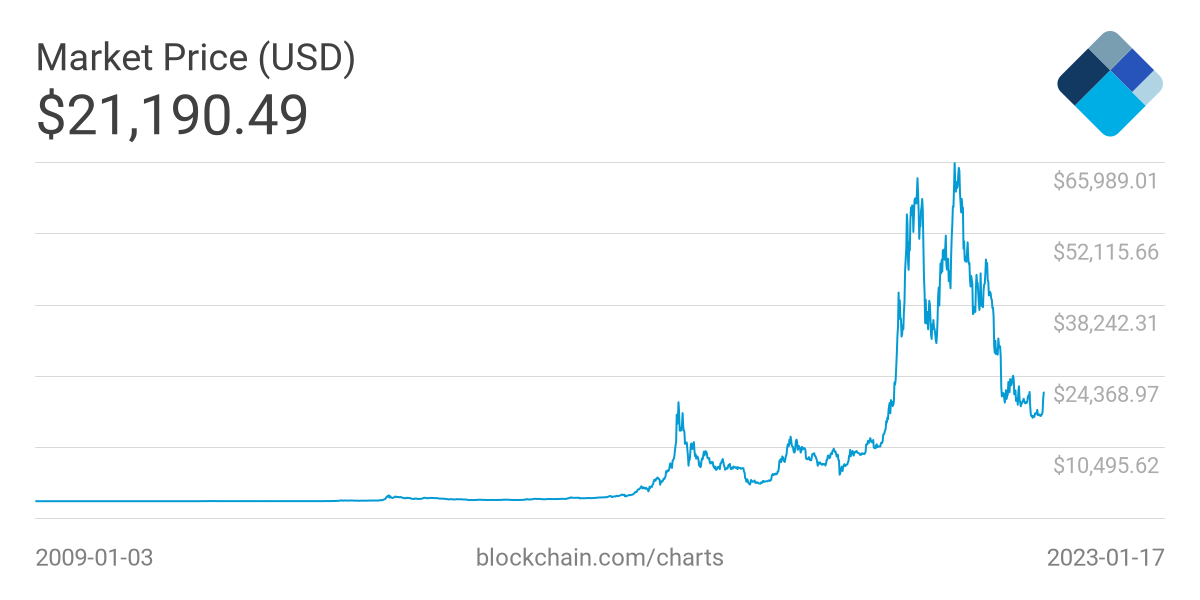
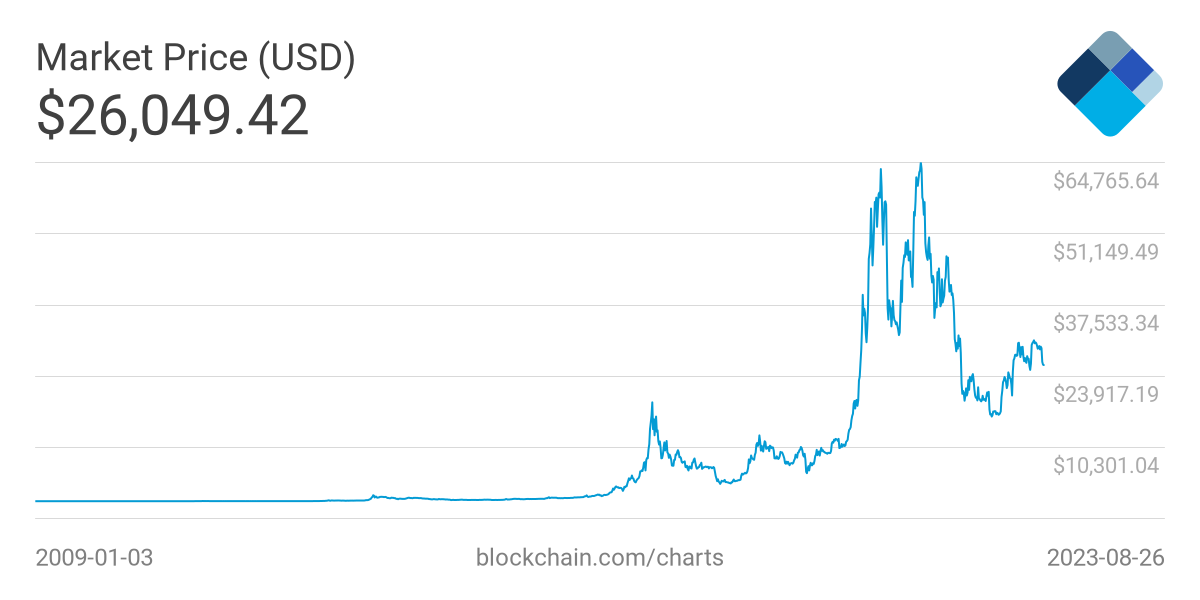
Updated overview and bitcoin slide sets with latest data

diff --git a/slides/overview.html b/slides/overview.html
@@ -137,7 +137,7 @@ According to Jan Lansky ([source](http://si-journal.org/index.php/JSI/article/vi
 <!-- .slide: class="no-white-img-background max-image-height-300 noboxshadow" -->
 ![AaronDollar (TM)](images/overview/aaron-dollar.png)
 - Would you pay me 1 dollar for it?  What about `$`10?  `$`100?
-<li class="fragment" data-fragment-index="1">If I told you it would buy you an A+ in this course...<ul><li>Would you pay me 1 dollar for it?  What about <code>$</code>10?  <code>$</code>100?</li></ul></li>
+<li class="fragment" data-fragment-index="1">If I told you it would buy you an A+ in this course...<ul><li>Would you pay me <code>$</code>100 then?</li></ul></li>
 
 
 
@@ -161,7 +161,6 @@ According to Jan Lansky ([source](http://si-journal.org/index.php/JSI/article/vi
     - Official currencies: USD and BTC
     - Thus, little control over monetary policy...
     - In 2021 they mined `$`269 in BTC for `$`4,672 ([source](https://slashdot.org/story/21/12/11/188219/foreign-policy-magazine-bitcoin-failed-in-el-salvador-is-the-answer-more-bitcoin))
-<!-- change each semester -->
 
 
 
@@ -175,8 +174,8 @@ According to Jan Lansky ([source](http://si-journal.org/index.php/JSI/article/vi
 
 
 ## Cryptocurrencies
-- There are 8,806 existing cryptocurrencies (that have value) <!-- change each semester -->
-  - As per [investing.com](https://www.investing.com/crypto/currencies) (as of Jan 17, 2023)
+- There are 8,906 existing cryptocurrencies (that have value) <!-- change each semester -->
+  - As per [investing.com](https://www.investing.com/crypto/currencies) (as of Aug 27, 2023)
 - One estimate is that 100 new ones are created *each day*
   - Most don't make investing.com's list
 - Some are [Ponzi schemes](https://en.wikipedia.org/wiki/Ponzi_scheme), some are [pyramid schemes](https://en.wikipedia.org/wiki/Ponzi_scheme), and some are worthwhile
@@ -205,7 +204,7 @@ According to Jan Lansky ([source](http://si-journal.org/index.php/JSI/article/vi
 <!-- .slide: class="right-float-img-nb-300" -->
 ## A note about numbers...
 [![](../slides/images/overview/bitcoin-coin.webp)](https://commons.wikimedia.org/wiki/File:One_bitcoin_sitting_atop_bundles_of_US_$100_notes.png)
-- The data in this slide set was all updated for the current semester (on Jan 17, 2023) <!-- change each semester -->
+- The data in this slide set was all updated for the current semester (as of Aug 27, 2023) <!-- change each semester -->
 - Bitcoin is highly volatile (the value changes so fast) that it is likely to be quite different in a day or two
   - Indeed, the value of a Bitcoin changed *during* the updating of the numbers!
     - So you will see (slightly) different values for the price, for example
@@ -291,9 +290,9 @@ From [blockchain.com](https://blockchain.com); BTC peaked at $68,789 in November
 - The first block was the "genesis block"
 - Each successive block includes the SHA-256 hash of the previous block
   - Thus, you can't make a change to a previous block without changing all successive blocks
-- The current blockchain (as of August 23, 2022) is  772,463 blocks (aka 'height'; [source](https://bitinfocharts.com/))
-  - About 438 Gb in size ([source](https://www.blockchain.com/charts/blocks-size))
-<!-- change each semester -->
+- The current blockchain (as of Aug 27, 2023) is  805,090 blocks (aka 'height'; [source](https://bitinfocharts.com/))
+  - About 494 Gb in size ([source](https://www.blockchain.com/charts/blocks-size))
+<!-- change each semester (be sure to divide that number by 1024) -->
 
 
 
@@ -363,19 +362,23 @@ From [blockchain.com](https://blockchain.com); BTC peaked at $68,789 in November
 
 ## Difficulty
 - First target ($ft$): 00000000ffff00000000000000 00000000000000000000000000000000000000
-- The current target ($ct$) is 00000000000000000008417e00000000 00000000000000000000000000000000
-  - As of Jan 17, 2023 and can be found [here](http://learnmeabitcoin.com/glossary/target)
+<!-- formula: ft=26959535291011309493156476344723991336010898738574164086137773096960 -->
+- The current target ($ct$) is  0000000000000000000561020000000 000000000000000000000000000000000
+<!-- formula: ct=515199788182065911307653755120147792390991404454641664 -->
+  - As of Aug 27, 2023 and can be found [here](http://learnmeabitcoin.com/glossary/target)
+    - That site is almost 5,000 blocks behind...
   <!-- change each semester -->
-  - The new target is harder than the old: specifically $ft/ct$ = 34,093,570,325,204 times harder (that's 34.1 *trillion*)
+  - The new target is harder than the old: specifically $ft/ct$ = 52,328,312,063,444 times harder (that's 52.3 *trillion*)
+    - Actually it's about 55.6 trillion now<!-- set this value to diff, such as via the formula: diff=55.62*10^12 -->
 - This number is the bitcoin *difficulty*, and the latest value can be found [here](https://www.coinwarz.com/mining/bitcoin/difficulty-chart)
 
 
 
 ## Current hash difficulty
 - For the first target, a random nonce had a 1 in 4.3 billion chance of success
-- The current target is 34.1 trillion times harder
-  - A random nonce now has a 1 in $1.46 \times 10^{23}$ chance of success
-    <!-- change each semester --><!-- that value is n = 1/(d*s^32) -->
+- The current target is 55.6 trillion times harder
+  - A random nonce now has a 1 in $2.39 \times 10^{23}$ chance of success
+    <!-- change each semester; formula: chance=diff*2^32 -->
 
 
 
@@ -385,18 +388,18 @@ From [blockchain.com](https://blockchain.com); BTC peaked at $68,789 in November
 - A typical CPU can do maybe 10 Mhash/sec (million hashes per second)
   - A very fast CPU today could do about 25 Mhash/sec
   - A [$1,500 video card](https://www.amazon.com/gp/product/B07GHXQTGZ/) today could do about 800 Mhash/sec (estimate based on [this](https://en.bitcoin.it/wiki/Non-specialized_hardware_comparison#Nvidia) and [this](https://gpu.userbenchmark.com/Compare/Nvidia-RTX-2080-vs-Nvidia-GeForce-GTX-590-SLI-Disabled/4026vsm8041))
-- Consider a 1 in $1.46 \times 10^{23}$ chance of success
-- To generate $1.2 \times 10^{23}$ hashes at 800 million (8 Mhash) per second on a fast graphics card, this will take 6.8 *million years*
-  <!-- change each semester -->
+- Consider a 1 in $2.39 \times 10^{23}$ chance of success
+- To generate $2.39 \times 10^{23}$ hashes at 800 million (8 Mhash) per second on a fast graphics card, this will take 9.5 *million years*
+  <!-- change each semester; formula: gpuyears=chance/(365.25*24*60*60*800*10^6) -->
 
 
 
 <!-- .slide: class="right-float-img-nb-300" -->
 ## Electricity usage
 ![](https://upload.wikimedia.org/wikipedia/commons/6/6b/Electricity_pylons2.jpg)
-- A graphics card uses about 200 W (watts) (estimated from [here](https://en.bitcoin.it/wiki/Non-specialized_hardware_comparison#Nvidia))
+- A graphics card uses about 400 W (watts) (estimated from [here](https://en.bitcoin.it/wiki/Non-specialized_hardware_comparison#Nvidia))
 - Electricity in Charlottesville costs 11.04 cents per kW/h (as per [here](https://www.electricitylocal.com/states/virginia/charlottesville/))
-- This would cost about a billion dollars <!-- change each semester; if n is as above, and 800 Mh is the GPU rate, then price = n/60/60*200/1000*.1104/800000000 -->
+- This would cost about 3.7 billion dollars <!-- change each semester; formula: elecost=gpuyears*400/1000*24*365.25*0.1104 -->
 
 
 
@@ -448,12 +451,12 @@ From [blockchain.com](https://blockchain.com); BTC peaked at $68,789 in November
 
 
 ## Reward per block
-- The current reward (as of Jan 17, 2023) is 6.25 BTC
+- The current reward (as of Aug 27, 2023) is 6.25 BTC
   <!-- change each semester -->
   - Plus transaction fees of around 0.1 BTC or so
-  - The estimated date when it drops to 3.125 BTC is May 2024 ([source](https://www.bitcoinblockhalf.com/))
-- At a price of about $21k per block ([source](https://www.coindesk.com/price/bitcoin)), 6.35 BTC is  about $133k for a properly signed block   <!-- change each semester -->
-  - But if it costs over a billion dollars in electricity, perhaps it's not all that worth it
+  - The estimated date when it drops to 3.125 BTC is April 2024 ([source](https://www.bitcoinblockhalf.com/))
+- At a price of about $26k per block ([source](https://www.coindesk.com/price/bitcoin)), 6.35 BTC is  about $166k for a properly signed block   <!-- change each semester --><!-- formula: reward=166*1000 -->
+  - But if it costs almost 4 billion dollars in electricity, perhaps it's not all that worth it
   - Unless you use somebody else's electricity...
 
 
@@ -478,6 +481,7 @@ From [blockchain.com](https://blockchain.com); BTC peaked at $68,789 in November
 ## Hashes per second
 From [blockchain.com](https://www.blockchain.com/charts/hash-rate), and for the entire Bitcoin network; E = exa = $10^{18}$
 <!-- change each semester -->
+<!-- formula: hashrate=390.9*10^18 -->
 ![hashes per second](images/timely/btc-hashes-per-sec.webp)
 
 
@@ -487,59 +491,70 @@ From [blockchain.com](https://www.blockchain.com/charts/hash-rate), and for the 
 ![](https://m.media-amazon.com/images/I/61WsmRwaOaL._AC_SL1000_.jpg)
 - A whole industry has sprung up: you can find the hardware online (such as [here](https://www.bitcoinmining.com/bitcoin-mining-hardware/))
 - These devices are much faster and use much less electricity
-- Consider the [DragonX AntMiner S9](https://www.amazon.com//dp/B07CGFLJNQ/), which used to cost `$`300 (and over `$`1k before that)
-  - Amazon doesn't sell it anymore
-  - It can compute 14 Thash/sec (tera), or $14*10^{12}$ hash/sec
+- Consider the [DragonX AntMiner S19](https://www.amazon.com//dp/B08ZNMGKZ1/), which costs `$`1,200 (as of Aug 27, 2023)
+  - It can compute 90 Thash/sec (tera), or $90 \ast 10^{12}=9 \ast 10^{13}$ hash/sec
   - I don't believe their numbers that they posted at that link, though
 
 
 
 ## Mining profitability
 - A reasonable profit margin estimate:
-  - For a investment of $x$ dollars in mining equipment, you might make one-twentieth of that per month
+  - For a investment of $x$ dollars in mining equipment, you might make one-tenth of that per month
     - If you are lucky!
   - So you will start to make a profit in about two years, assuming that the difficulty doesn't go up that much
+- But this does *NOT* include electrical costs!
 - Keep in mind that if this were *really* profitable, then everybody would jump in on it, and the difficulty would just jump up, causing it to become suddenly less profitable
 
 
 
-## [DragonX AntMinder S9](https://www.amazon.com/dp/B07WV6TPN7) analysis
+## [DragonX AntMiner S19](https://www.amazon.com/dp/B08ZNMGKZ1) analysis
 <!-- change each semester -->
 - We know that:
-  - The current hash rate is 267 EH/s
-  - Blocks take about 10 minutes to process (actually about 9m 25s right now ([source](https://bitinfocharts.com/)))
-  - The [DragonX AntMinder S9](https://www.amazon.com/dp/B07WV6TPN7) claims to hash 14 TH/s
-- 267 exa / 14 tera = $267 \cdot 10^{18} / 14 \cdot 10^{12} = 19 \cdot 10^{6}$ or 19 million
-- Thus, you would expect to get one 19-millionth of a block's reward in a pooled setup
-- At $133k per block, that's about 1 *cent* per block
+  - The current hash rate is about 391 EH/s
+  - Blocks take about 10 minutes to process (actually about 12m 6s right now ([source](https://bitinfocharts.com/)))
+  - The [DragonX AntMiner S9](https://www.amazon.com/dp/B08ZNMGKZ1) claims to hash 90 TH/s <!-- formula: minerrate=90*10^12 -->
+- 391 exa / 90 tera = $391 \cdot 10^{18} / 90 \cdot 10^{12} = 4.34 \cdot 10^{6}$ or 4 million <!-- formula: blockreward=hashrate/minerrate -->
+- Thus, you would expect to get one 4-millionth of a block's reward in a pooled setup <!-- formula: profitperblock=reward/blockreward -->
+- At `$`166 per block, that's about 3.8 *cents* per block
 - (And we aren't counting electricity here)
 
 
 
-## [DragonX AntMinder S9](https://www.amazon.com/dp/B07WV6TPN7) analysis
+## [DragonX AntMiner S19](https://www.amazon.com/dp/B08ZNMGKZ1) analysis
 <!-- change each semester -->
-- At $133k per block, that's about 1 *cent* per block
-  - Which is $1.05 per day
-    - This assumes 10 minute blocks; it's a bit more with 9m21s blocks
-  - You will make back your initial investment of $300 (plus tax) 286 days
-    - That's 9.4 months
+- At `$`166 per block, that's about 3.8 cents per block
+  - Which is $5.50 per day <!-- formula: profitperday=profitperblock*24*6 -->
+    - This assumes 10 minute blocks; it's a less with 12m6s blocks
+  - You will make back your initial investment of `$`1,200 (plus tax) 220 days
+    - That's 7.3 months
 - This assumes that the numbers don't change!
   - And that you aren't paying for electricity
-  - And we know the reward per block will go down in May of 2024...
-- There is also [one available](https://www.amazon.com/dp/B07YVMS7CY/) that mines 3 times as fast but costs 5 times as much!
+  - And we know the reward per block will go down in April of 2024...
+- There is also [one available](https://www.amazon.com/dp/B0CCK4RDJF/) that mines twice times as fast but costs 3.5 times as much, but uses less power
 
 
 
-## [DragonX AntMinder S9](https://www.amazon.com/dp/B07WV6TPN7) analysis
+## [DragonX AntMiner S19](https://www.amazon.com/dp/B08ZNMGKZ1) analysis
 <!-- change each semester -->
-- You will make $1.05 in BTC per day
+- You will make $5.50 in BTC per day
 - But... electricity is not free
-- Stated power usage: 1,373 W or 1.373 kW
-  - Over 24 hours that's $24 * 1.373 = 32.952$ kWh
-  - At Charlottesville's rate of 11.04&cent; per kWh, that's $3.64 per day
-- So your total profit is: `$`3.64 - `$`1.05 or
-  - *Negative* `$`2.59 cents per day!
+- Stated power usage: 3,250 W or 3.25 kW
+  - Over 24 hours that's $24 * 3.25 = 78$ kWh
+  - At Charlottesville's rate of 11.04&cent; per kWh, that's `$`8.61 per day
+    - About `$`260 per month
+- So your total daily profit is: `$`5.50 - `$`8.61 or
+  - *Negative* `$`3.11 cents per day!
 
+
+
+
+## When is Bitcoin mining profitable?
+- When you don't pay for electricity
+  - Apartment rental where utilities are included in the rent, for example
+- Using computers that are not your own
+  - Malware, running it on another cluster, etc.
+- When done on a large scale
+  - One can make deals with power companies, locate where power is cheaper, etc.
 
 
 

diff --git a/slides/images/timely/readme.html b/slides/images/timely/readme.html
@@ -36,6 +36,10 @@
     document.getElementById(tabName).style.display = "block";
     evt.currentTarget.className += " active";
   }
+
+  function insertCopyLink(text) {
+    document.write("<span class=\"copylink copy_img\" onclick=\"navigator.clipboard.writeText('" + text.replace(/\"/g,"\\'") + "')\"></span>");
+  }
   </script>
   <!--[if lt IE 9]>
     <script src="//cdnjs.cloudflare.com/ajax/libs/html5shiv/3.7.3/html5shiv-printshiv.min.js"></script>
@@ -46,20 +50,20 @@
 <p>These are the graphs that have to be changed each time the lecture is presented. The newest images should not have any date suffix; a date suffix is only added when a newer image is being added.</p>
 <p>From the <a href="../../../uva/introduction.html#/">course introduction slide set</a>:</p>
 <ul>
-<li>Cryptocurrency market capitalization, all-time (<code>cc-market-cap.svg</code>), from <a href="https://coinmarketcap.com/charts/">https://coinmarketcap.com/charts/</a>: from <a href="cc-market-cap-2022-01-18.svg">2022-01-18</a>, <a href="cc-market-cap-2022-08-23.svg">2022-08-23</a>, <a href="cc-market-cap.svg">2023-01-23</a></li>
-<li>Cryptocurrency market capitalization without BTC, all-time (<code>cc-market-cap-no-btc.svg</code>), from <a href="https://coinmarketcap.com/charts/">https://coinmarketcap.com/charts/</a>: from <a href="cc-market-cap-no-btc-2022-01-18.svg">2022-01-18</a>, <a href="cc-market-cap-no-btc-2022-08-23.svg">2022-08-23</a>, <a href="cc-market-cap-no-btc.svg">2023-01-23</a></li>
-<li>Bitcoin dominance, all-time (<code>btc-dominance.svg</code>), from <a href="https://coinmarketcap.com/charts/">https://coinmarketcap.com/charts/</a>: from <a href="btc-dominance-2022-01-18.svg">2022-01-18</a>, <a href="btc-dominance-2022-08-23.svg">2022-08-23</a>, <a href="btc-dominance.svg">2023-01-23</a></li>
+<li>Cryptocurrency market capitalization, all-time (<code>cc-market-cap.svg</code>), from <a href="https://coinmarketcap.com/charts/">https://coinmarketcap.com/charts/</a>: from <a href="cc-market-cap-2022-01-18.svg">2022-01-18</a>, <a href="cc-market-cap-2022-08-23.svg">2022-08-23</a>, <a href="cc-market-cap-2023-01-17.svg">2023-01-17</a>, <a href="cc-market-cap.svg">2023-08-27</a></li>
+<li>Cryptocurrency market capitalization without BTC, all-time (<code>cc-market-cap-no-btc.svg</code>), from <a href="https://coinmarketcap.com/charts/">https://coinmarketcap.com/charts/</a>: from <a href="cc-market-cap-no-btc-2022-01-18.svg">2022-01-18</a>, <a href="cc-market-cap-no-btc-2022-08-23.svg">2022-08-23</a>, <a href="cc-market-cap-no-btc-2023-01-17.svg">2023-01-17</a>, <a href="cc-market-cap-no-btc.svg">2023-08-27</a></li>
+<li>Bitcoin dominance, all-time (<code>btc-dominance.svg</code>), from <a href="https://coinmarketcap.com/charts/">https://coinmarketcap.com/charts/</a>: from <a href="btc-dominance-2022-01-18.svg">2022-01-18</a>, <a href="btc-dominance-2022-08-23.svg">2022-08-23</a>, <a href="btc-dominance-2023-01-17.svg">2023-01-17</a>, <a href="btc-dominance.svg">2023-08-27</a></li>
 </ul>
 <p>From the <a href="../../overview.html#/">overview slide set</a>. These should be exported as svg if possible; if not, then 1200x600 rasterized and converted to webp (running <code>make</code> will covert .png files to .webp).</p>
 <ul>
-<li>Bitcoin price, all-time / raw values (<code>btc-price.webp</code>), from <a href="https://www.blockchain.com/charts/market-price">blockchain.com</a>: from <a href="btc-price-2022-01-17.png">2022-01-17</a>, <a href="btc-price-2022-08-23.webp">2022-08-23</a>, <a href="btc-price.webp">2023-01-23</a></li>
-<li>Bitcoin difficulty, all-time / raw values (<code>btc-difficulty-all-time.webp</code>), from <a href="https://www.blockchain.com/en/charts/difficulty">blockchain.com</a>: from <a href="btc-difficulty-all-time-2022-01-17.png">2022-01-17</a>, <a href="btc-difficulty-all-time-2022-08-23.webp">2022-08-23</a>, <a href="btc-difficulty-all-time.webp">2023-01-23</a></li>
-<li>Bitcoin difficulty, last 3 years / raw values (<code>btc-difficulty-last-3-years.webp</code>), from <a href="https://www.blockchain.com/en/charts/difficulty">blockchain.com</a>: from <a href="btc-difficulty-last-3-years-2022-01-17.png">2022-01-17</a>, <a href="btc-difficulty-last-3-years-2022-08-23.webp">2022-08-23</a>, <a href="btc-difficulty-last-3-years.webp">2023-01-23</a></li>
-<li>Bitcoin hashes per second, all-time / 7-day average (<code>btc-hashes-per-sec.webp</code>), from <a href="https://www.blockchain.com/charts/hash-rate">blockchain.com</a>: from <a href="btc-hashes-per-sec-2022-01-17.png">2022-01-17</a>, <a href="btc-hashes-per-sec-2022-08-23.webp">2022-08-23</a>, <a href="btc-hashes-per-sec.webp">2023-01-23</a></li>
+<li>Bitcoin price, all-time / raw values (<code>btc-price.webp</code>), from <a href="https://www.blockchain.com/charts/market-price">blockchain.com</a>: from <a href="btc-price-2022-01-17.png">2022-01-17</a>, <a href="btc-price-2022-08-23.webp">2022-08-23</a>, <a href="btc-price-2023-01-17.webp">2023-01-17</a>, <a href="btc-price.webp">2023-08-27</a></li>
+<li>Bitcoin difficulty, all-time / raw values (<code>btc-difficulty-all-time.webp</code>), from <a href="https://www.blockchain.com/en/charts/difficulty">blockchain.com</a>: from <a href="btc-difficulty-all-time-2022-01-17.png">2022-01-17</a>, <a href="btc-difficulty-all-time-2022-08-23.webp">2022-08-23</a>, <a href="btc-difficulty-all-time-2023-01-17.webp">2023-01-17</a>, <a href="btc-difficulty-all-time.webp">2023-08-27</a></li>
+<li>Bitcoin difficulty, last 3 years / raw values (<code>btc-difficulty-last-3-years.webp</code>), from <a href="https://www.blockchain.com/en/charts/difficulty">blockchain.com</a>: from <a href="btc-difficulty-last-3-years-2022-01-17.png">2022-01-17</a>, <a href="btc-difficulty-last-3-years-2022-08-23.webp">2022-08-23</a>, <a href="btc-difficulty-last-3-years-2023-01-17.webp">2023-01-17</a>, <a href="btc-difficulty-last-3-years.webp">2023-08-27</a></li>
+<li>Bitcoin hashes per second, all-time / 7-day average (<code>btc-hashes-per-sec.webp</code>), from <a href="https://www.blockchain.com/charts/hash-rate">blockchain.com</a>: from <a href="btc-hashes-per-sec-2022-01-17.png">2022-01-17</a>, <a href="btc-hashes-per-sec-2022-08-23.webp">2022-08-23</a>, <a href="btc-hashes-per-sec-2023-01-17.webp">2023-01-17</a>, <a href="btc-hashes-per-sec.webp">2023-08-27</a></li>
 </ul>
 <p>From the <a href="../../bitcoin.html#/">Bitcoin slide set</a></p>
 <ul>
-<li><a href="https://bitnodes.io/">Bitcoin nodes</a> from <a href="btc-nodes.webp">2022-09-06</a>, <a href="btc-nodes-2022-02-06.png">2022-02-06</a>
+<li><a href="https://bitnodes.io/">Bitcoin nodes</a> from <a href="btc-nodes-2022-02-06.png">2022-02-06</a>, <a href="btc-nodes-2022-09-06.webp">2022-09-06</a>, <a href="btc-nodes.webp">2023-08-27</a>
 <ul>
 <li>cwebp parameters: <code>-q 75</code></li>
 </ul></li>

diff --git a/slides/bitcoin.html b/slides/bitcoin.html
@@ -174,7 +174,7 @@ Given a Merkle tree:
 
 
 ## Problems with Merkle Trees
-- Bitcoin uses the hash functions "to an excessive degree" ([wikipedia](https://en.wikipedia.org/wiki/Merkle_tree))
+- Bitcoin uses the hash functions "to an excessive degree" ([Wikipedia](https://en.wikipedia.org/wiki/Merkle_tree))
 - The Merkle Tree construction is thus rather slow
 - Also their use in Bitcoin had a vulnerability: [CVE-2012-2459](https://cve.mitre.org/cgi-bin/cvename.cgi?name=CVE-2012-2459)
   - Problem was with duplicating transactions
@@ -405,7 +405,7 @@ Text: "The Times 03/Jan/2009 Chancellor on brink of second bailout for banks"
 
 
 ## Node stats from [bitnodes.io](https://bitnodes.io/)
-- As of Sep 6, 2022, there are 13,694 nodes in the Bitcoin network
+- As of Aug 27, 2023, there are 7,764 nodes in the Bitcoin network<!-- change each semester -->
 
 ![](images/timely/btc-nodes.webp)
 

diff --git a/slides/images/timely/readme.md b/slides/images/timely/readme.md
@@ -5,20 +5,20 @@ These are the graphs that have to be changed each time the lecture is presented.
 
 From the [course introduction slide set](../../../uva/introduction.html#/):
 
-- Cryptocurrency market capitalization, all-time (`cc-market-cap.svg`), from [https://coinmarketcap.com/charts/](https://coinmarketcap.com/charts/): from [2022-01-18](cc-market-cap-2022-01-18.svg), [2022-08-23](cc-market-cap-2022-08-23.svg), [2023-01-23](cc-market-cap.svg)
-- Cryptocurrency market capitalization without BTC, all-time (`cc-market-cap-no-btc.svg`), from [https://coinmarketcap.com/charts/](https://coinmarketcap.com/charts/): from [2022-01-18](cc-market-cap-no-btc-2022-01-18.svg), [2022-08-23](cc-market-cap-no-btc-2022-08-23.svg), [2023-01-23](cc-market-cap-no-btc.svg)
-- Bitcoin dominance, all-time (`btc-dominance.svg`), from [https://coinmarketcap.com/charts/](https://coinmarketcap.com/charts/): from [2022-01-18](btc-dominance-2022-01-18.svg), [2022-08-23](btc-dominance-2022-08-23.svg), [2023-01-23](btc-dominance.svg)
+- Cryptocurrency market capitalization, all-time (`cc-market-cap.svg`), from [https://coinmarketcap.com/charts/](https://coinmarketcap.com/charts/): from [2022-01-18](cc-market-cap-2022-01-18.svg), [2022-08-23](cc-market-cap-2022-08-23.svg), [2023-01-17](cc-market-cap-2023-01-17.svg), [2023-08-27](cc-market-cap.svg)
+- Cryptocurrency market capitalization without BTC, all-time (`cc-market-cap-no-btc.svg`), from [https://coinmarketcap.com/charts/](https://coinmarketcap.com/charts/): from [2022-01-18](cc-market-cap-no-btc-2022-01-18.svg), [2022-08-23](cc-market-cap-no-btc-2022-08-23.svg), [2023-01-17](cc-market-cap-no-btc-2023-01-17.svg), [2023-08-27](cc-market-cap-no-btc.svg)
+- Bitcoin dominance, all-time (`btc-dominance.svg`), from [https://coinmarketcap.com/charts/](https://coinmarketcap.com/charts/): from [2022-01-18](btc-dominance-2022-01-18.svg), [2022-08-23](btc-dominance-2022-08-23.svg), [2023-01-17](btc-dominance-2023-01-17.svg), [2023-08-27](btc-dominance.svg)
 
 From the [overview slide set](../../overview.html#/).  These should be exported as svg if possible; if not, then 1200x600 rasterized and converted to webp (running `make` will covert .png files to .webp).
 
-- Bitcoin price, all-time / raw values (`btc-price.webp`), from [blockchain.com](https://www.blockchain.com/charts/market-price): from [2022-01-17](btc-price-2022-01-17.png), [2022-08-23](btc-price-2022-08-23.webp), [2023-01-23](btc-price.webp)
-- Bitcoin difficulty, all-time / raw values  (`btc-difficulty-all-time.webp`), from [blockchain.com](https://www.blockchain.com/en/charts/difficulty): from [2022-01-17](btc-difficulty-all-time-2022-01-17.png), [2022-08-23](btc-difficulty-all-time-2022-08-23.webp), [2023-01-23](btc-difficulty-all-time.webp)
-- Bitcoin difficulty, last 3 years / raw values (`btc-difficulty-last-3-years.webp`), from [blockchain.com](https://www.blockchain.com/en/charts/difficulty): from [2022-01-17](btc-difficulty-last-3-years-2022-01-17.png), [2022-08-23](btc-difficulty-last-3-years-2022-08-23.webp), [2023-01-23](btc-difficulty-last-3-years.webp)
-- Bitcoin hashes per second, all-time / 7-day average (`btc-hashes-per-sec.webp`), from [blockchain.com](https://www.blockchain.com/charts/hash-rate): from [2022-01-17](btc-hashes-per-sec-2022-01-17.png), [2022-08-23](btc-hashes-per-sec-2022-08-23.webp), [2023-01-23](btc-hashes-per-sec.webp)
+- Bitcoin price, all-time / raw values (`btc-price.webp`), from [blockchain.com](https://www.blockchain.com/charts/market-price): from [2022-01-17](btc-price-2022-01-17.png), [2022-08-23](btc-price-2022-08-23.webp), [2023-01-17](btc-price-2023-01-17.webp), [2023-08-27](btc-price.webp)
+- Bitcoin difficulty, all-time / raw values  (`btc-difficulty-all-time.webp`), from [blockchain.com](https://www.blockchain.com/en/charts/difficulty): from [2022-01-17](btc-difficulty-all-time-2022-01-17.png), [2022-08-23](btc-difficulty-all-time-2022-08-23.webp), [2023-01-17](btc-difficulty-all-time-2023-01-17.webp), [2023-08-27](btc-difficulty-all-time.webp)
+- Bitcoin difficulty, last 3 years / raw values (`btc-difficulty-last-3-years.webp`), from [blockchain.com](https://www.blockchain.com/en/charts/difficulty): from [2022-01-17](btc-difficulty-last-3-years-2022-01-17.png), [2022-08-23](btc-difficulty-last-3-years-2022-08-23.webp), [2023-01-17](btc-difficulty-last-3-years-2023-01-17.webp), [2023-08-27](btc-difficulty-last-3-years.webp)
+- Bitcoin hashes per second, all-time / 7-day average (`btc-hashes-per-sec.webp`), from [blockchain.com](https://www.blockchain.com/charts/hash-rate): from [2022-01-17](btc-hashes-per-sec-2022-01-17.png), [2022-08-23](btc-hashes-per-sec-2022-08-23.webp), [2023-01-17](btc-hashes-per-sec-2023-01-17.webp), [2023-08-27](btc-hashes-per-sec.webp)
 
 From the [Bitcoin slide set](../../bitcoin.html#/)
 
-- [Bitcoin nodes](https://bitnodes.io/) from [2022-09-06](btc-nodes.webp), [2022-02-06](btc-nodes-2022-02-06.png)
+- [Bitcoin nodes](https://bitnodes.io/) from [2022-02-06](btc-nodes-2022-02-06.png), [2022-09-06](btc-nodes-2022-09-06.webp), [2023-08-27](btc-nodes.webp)
 	- cwebp parameters: `-q 75`
 
 
